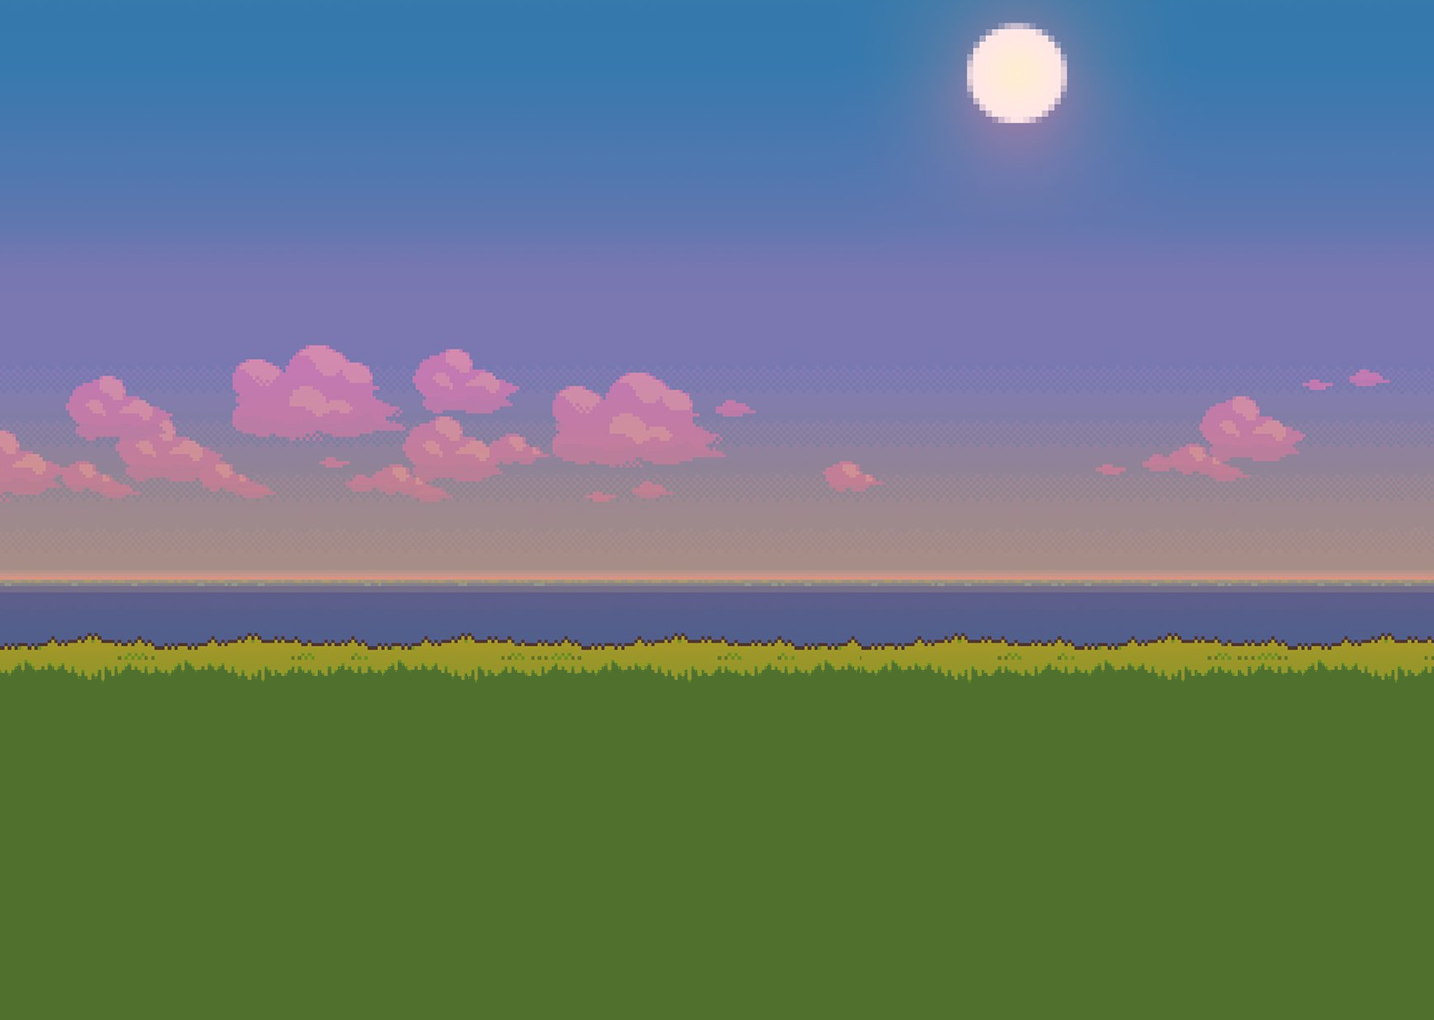
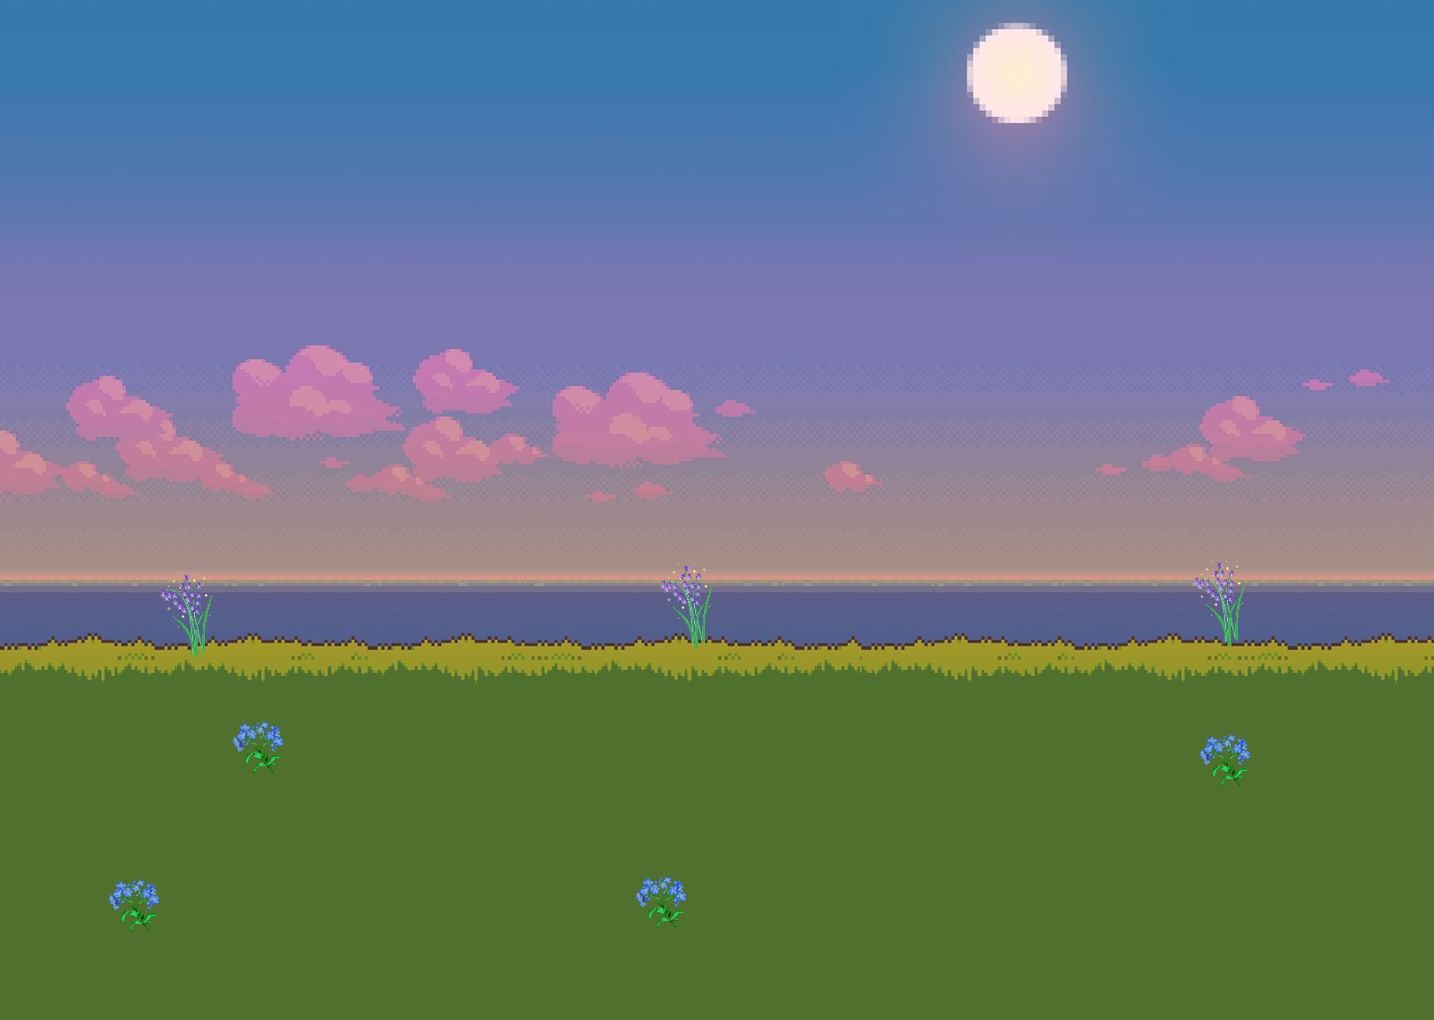
Added a fuctioning start on level 2

diff --git a/src/js/app.js b/src/js/app.js
@@ -7,11 +7,17 @@ $(() => {
   let key = false;
   const $Wall1 = $('.Wall1');
   let $Wall2 = $('.Wall2');
+  const $Wall3 = $('.Wall3');
   const $heading = $('.heading');
   const $color1 = $('#color1');
   const $color2 = $('#color2');
   const $color3 = $('#color3');
   const $colors = $('.colors');
+  const $clicker = $('.clicker');
+  // let clickedButton = null;
+  // const $button6 = $('.6');
+  // const $button4 = $('.4');
+  // const $button10 = $('.10');
   // const wall = false;
 
 
@@ -95,6 +101,8 @@ $(() => {
     $(e.target).html('The trees');
   });
 
+
+
   //First level Chest Click function.
 
   $chest.click(function(){
@@ -125,15 +133,18 @@ $(() => {
       level2Prompts();
 
 
-
       // level 3 settings:
     } else if (backgroundIndex === 2) {
-      level2Prompts();
-      console.log('level 3!');
+      level2Prompts();     console.log('level 3!');
       $('body').css('background-image', `url(${backgrounds[backgroundIndex]})`);
       $colors.remove();
       $doggy.css({ left: '10px'});
       $doggy.css({ margintop: '350px'});
+      $heading.text('Take the time to look around');
+      $Wall3.show();
+      $clicker.show();
+
+
       //level 4 settings:
     }else if (backgroundIndex === 3) {
       console.log('level 4!');
@@ -141,12 +152,14 @@ $(() => {
       $doggy.css({ left: '10px'});
       $doggy.css({ margintop: '350px'});
 
+
       //level 5 settings:
     }else if (backgroundIndex === 4) {
       console.log('level 3!');
       $('body').css('background-image', `url(${backgrounds[backgroundIndex]})`);
       $doggy.css({ left: '10px'});
       $doggy.css({ margintop: '350px'});
+
     }
   }
 
@@ -189,6 +202,13 @@ $(() => {
 
     if(level2Prompts() && backgroundIndex === 1){
       console.log('lol', $doggy.position().left, key);
+      if($doggy.attr('src').match(/png/)) {
+        $doggy.attr('src', '/images/dog_right.gif');
+      }
+      $doggy.css({ left: '+=10' });
+    }
+    //(level3Prompts() &&
+    if (level3Prompts() && backgroundIndex === 2){
       if($doggy.attr('src').match(/png/)) {
         $doggy.attr('src', '/images/dog_right.gif');
       }
@@ -238,10 +258,60 @@ $(() => {
     return true;
   }
 
+  function level3Prompts(){
+    if ($Wall3){
+      if ($doggy.position().left >= 1550){
+        return false;
+      }
+      return true;
+    }
+    return true;
+  }
+
+  $clicker.hover(() => {
+    $($heading).html('How many blue flowers do you see?');
+  });
+
+  $('button').on('click', checkNumber);
+
+  let answer1 = false;
+  let answer2 = false;
+  
+  function checkNumber(e) {
+    console.log('clicked');
+    console.log('clickedButton', $(e.target).html());
+    const clickedButton = $(e.target).html();
+    if ($heading.html() === 'How many blue flowers do you see?') {
+      if (clickedButton === '6') {
+        answer1 = true;
+        $heading.text('Great! What about purple flowers?');
+      }
+    }
+    if ($heading.html() === 'Great! What about purple flowers?') {
+      if (clickedButton === '4') {
+        answer2 = true;
+        $heading.text('Great! You win');
+      }
+    }
+    if (answer1 && answer2) {
+      $Wall3.remove();
+    }
+  }
 
 
-
-
+  // function collectNumbers(){
+  //   console.log('counting');
+  //   if ($button6.one('click'())){
+  //     $heading.text('Great! What about purple flowers?');
+  //   }else if(!$button6.click()){
+  //     $heading.text('Not quite! Give it another go!');
+  //   }
+  //   if ($heading.html('Great! What about purple flowers?') && $button4.one.click()){
+  //     $heading.text('If we add all the flowers up, how many do we have in total?');
+  //   }else if(!$button4.click()){
+  //     $heading.text('Not quite! Give it another go!');
+  //   }
+  // }
   function checkColors(){
     console.log('checking');
     console.log($color1.css('background-color'));
@@ -252,6 +322,7 @@ $(() => {
       console.log('wall gone');
     }return true;
   }
+
 
 
 });

diff --git a/src/index.html b/src/index.html
@@ -24,5 +24,21 @@
       <div id="color3" class="colors"></div>
       <img src="/images/blockade.png" class="wall Wall2">
     </div>
+    <div class= "level3">
+      <div class= "bttns">
+        <button class="clicker">1</button>
+        <button class="clicker">2</button>
+        <button class="clicker">3</button>
+        <button class="clicker">4</button>
+        <button class="clicker">5</button>
+        <button class="clicker">6</button>
+        <button class="clicker">7</button>
+        <button class="clicker">8</button>
+        <button class="clicker">9</button>
+        <button class="clicker">10</button>
+      </div>
+      <img src="/images/blockade.png" class="wall Wall3">
+      <img src="/images/spider.gif">
+    </div>
   </body>
 </html>

diff --git a/src/scss/style.scss b/src/scss/style.scss
@@ -58,6 +58,11 @@ h1 {
   left: 1000px;
   }
 
+  .Wall3{
+     display:none;
+     left:1630px;
+  }
+
 
 .level2{
   position: absolute;
@@ -77,8 +82,18 @@ h1 {
       border:6px dotted black;
       display:none;
       justify-content: space-around;
-
-
     }
+}
+.bttns{
+  margin-left: 400px;
+  display: inline-flex;
+}
+button{
+  width:100px;
+  height:100px;
+  border-radius: 30%;
+  font-size: 30px;
+  margin-left: 20px;
+  display:none;
 
 }
